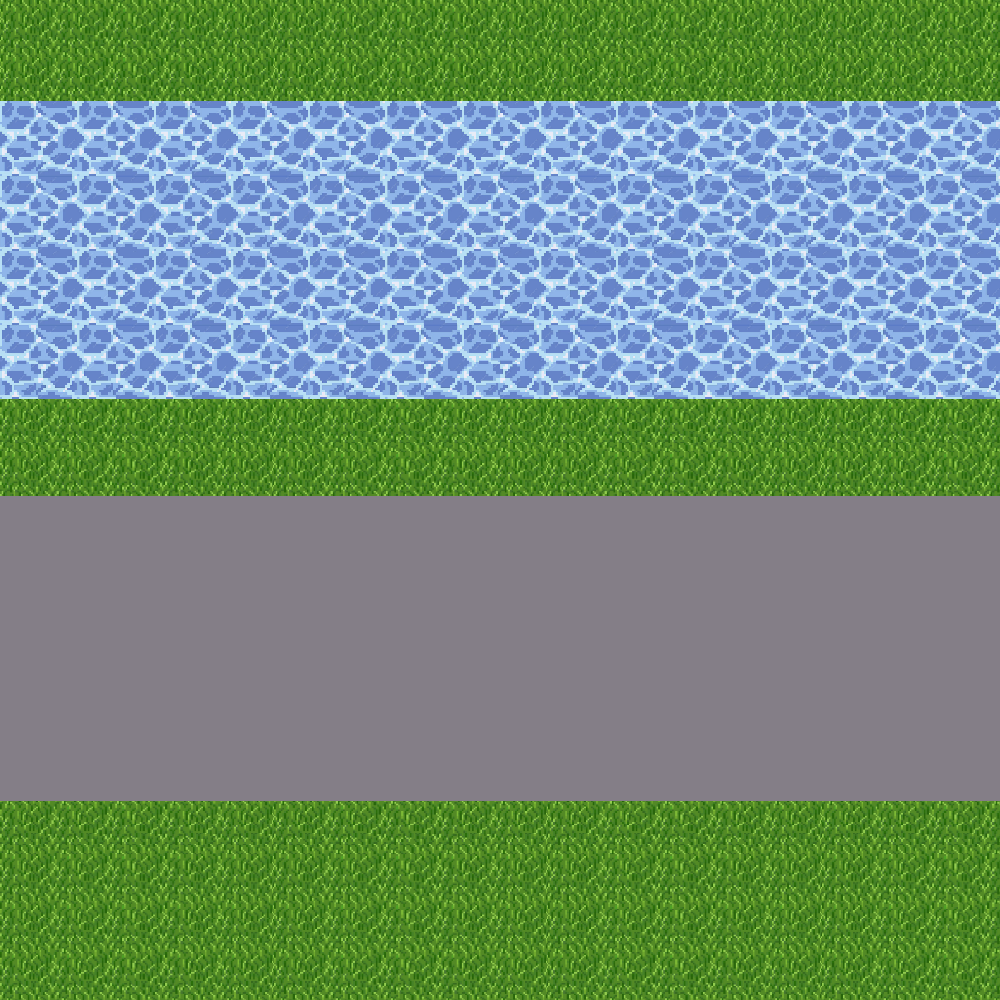
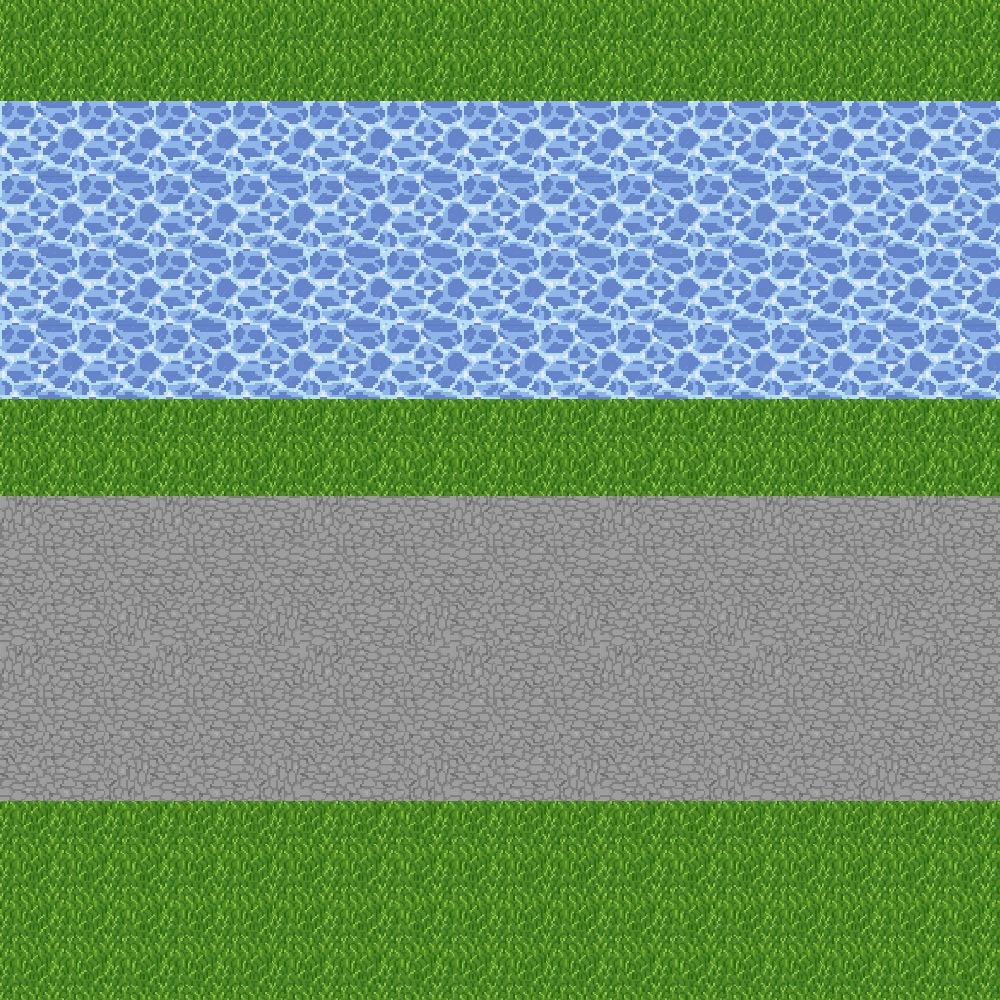
-updated some of the sprites graphics (no code)
-removed 2 unused methods in gamePrep

Changed region(s): [[0.0, 0.496, 1.0, 0.806]]

diff --git a/froggerGame/src/froggerGame/gamePrep.java b/froggerGame/src/froggerGame/gamePrep.java
@@ -1,3 +1,6 @@
+//Trevor Boudreau, w0483725
+//prog2200/3288 2024
+
 package froggerGame;
 
 import java.awt.Color;
@@ -12,7 +15,6 @@ import javax.swing.JButton;
 import javax.swing.JFrame;
 import javax.swing.JLabel;
 import javax.swing.SwingConstants;
-
 
 //Note: due to the way this game implements collision detection with key release, some unexpected errors
 //		may occur if key is tapped too quickly, or if the key is held in.
@@ -129,7 +131,6 @@ public class gamePrep extends JFrame implements KeyListener, ActionListener {
 			}
 		}
 		
-		
 		//set up restart button
 		restartBtn = new JButton("Continue?");
 		restartBtn.setSize(100,100);
@@ -183,14 +184,6 @@ public class gamePrep extends JFrame implements KeyListener, ActionListener {
 		}
 		
 		setDefaultCloseOperation(JFrame.EXIT_ON_CLOSE);
-	}
-	
-	public void setScore(int score) {
-		
-	}
-	
-	public void getScore() {
-		
 	}
 	
 
@@ -373,11 +366,7 @@ public class gamePrep extends JFrame implements KeyListener, ActionListener {
 		//move the label with it
 		frogLabel.setLocation( frog.getX() , frog.getY() );
 			
-		
-		
-		
 	}
-
 
 	@Override
 	public void keyReleased(KeyEvent e) {
